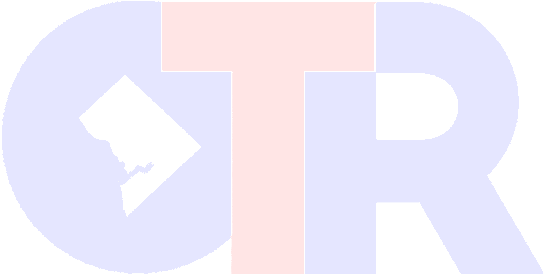
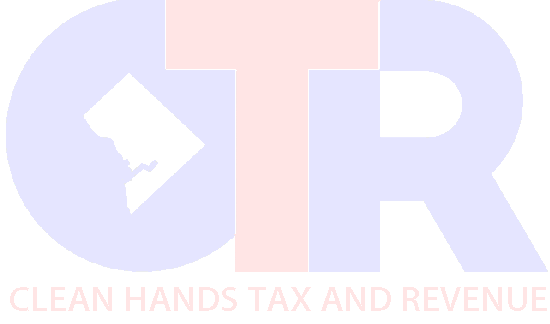
updated image for watermark

diff --git a/main.py b/main.py
@@ -222,9 +222,9 @@ def get_tax_content(tax_payer_id: str, notice_number: str, issuedTo: str) -> str
                     size: a4 portrait;
                     background-color: lightgray;
                     background-image: url('./assets/OTRGray.png');
-                    background-object-position: 50px 350px;
-                    background-width: 700px;
-                    background-height: 349px;
+                    background-object-position: 50px 300px;
+                    background-width: 680px;
+                    background-height: 400px;
                     @frame header_frame {{ /* Static Frame */
                         -pdf-frame-content: header_content;
                         left: 30pt; width: 532pt; top: 36pt; height: 70pt;
